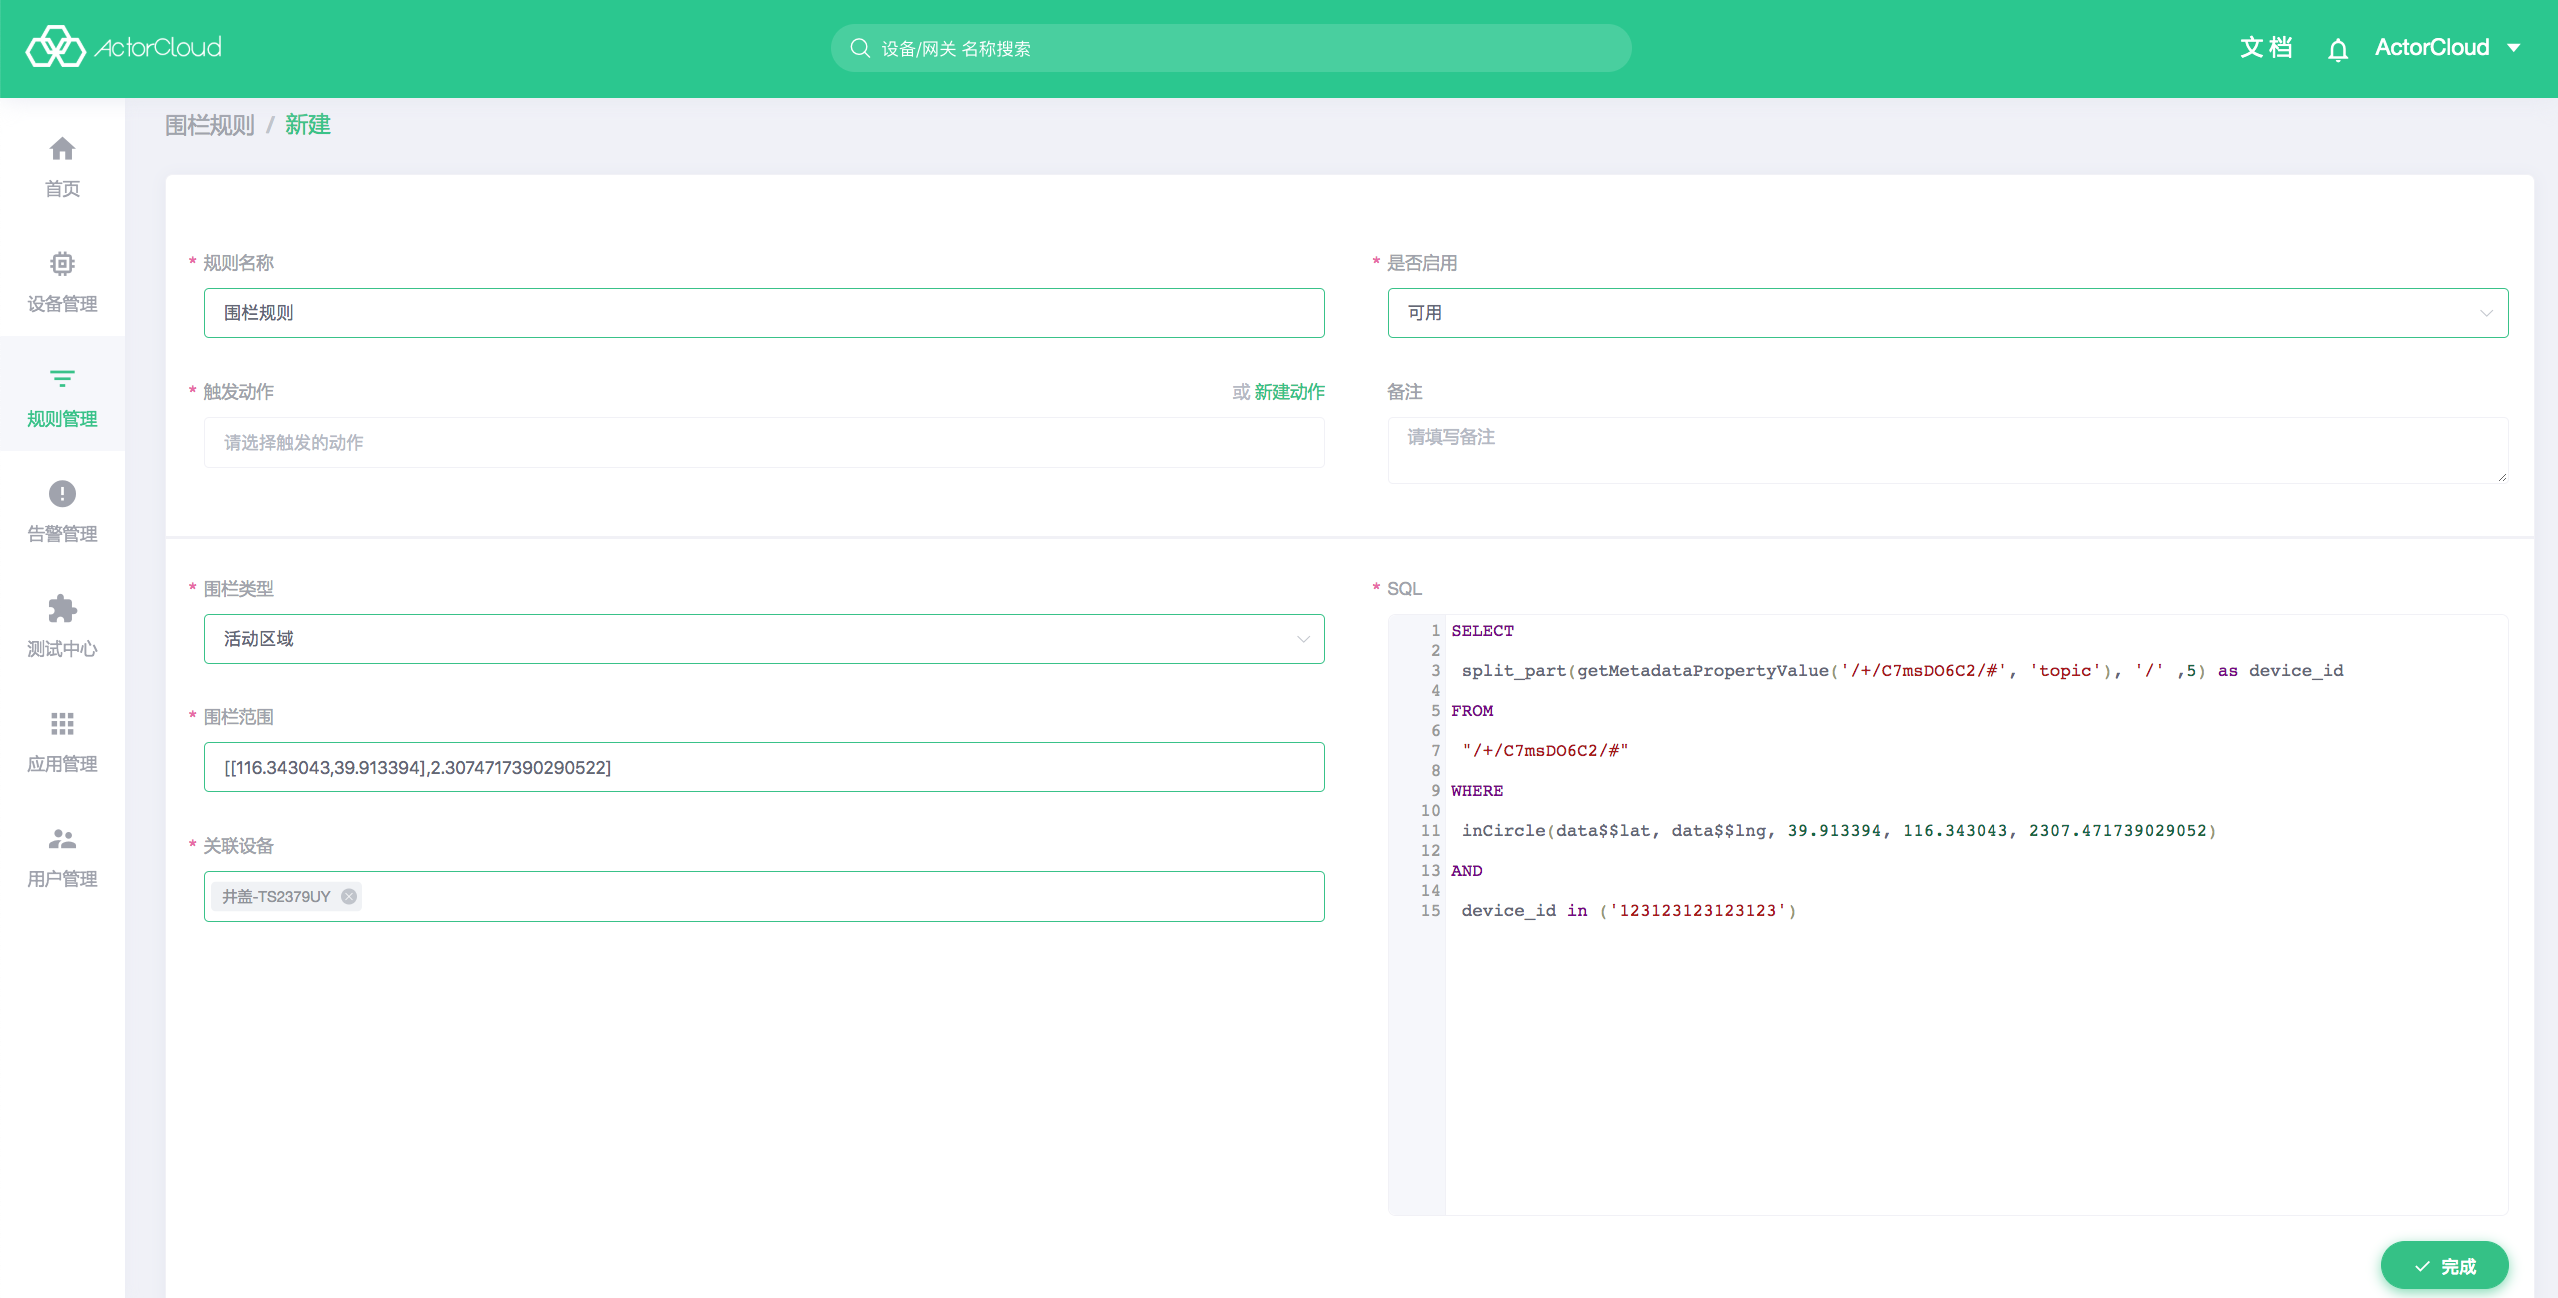
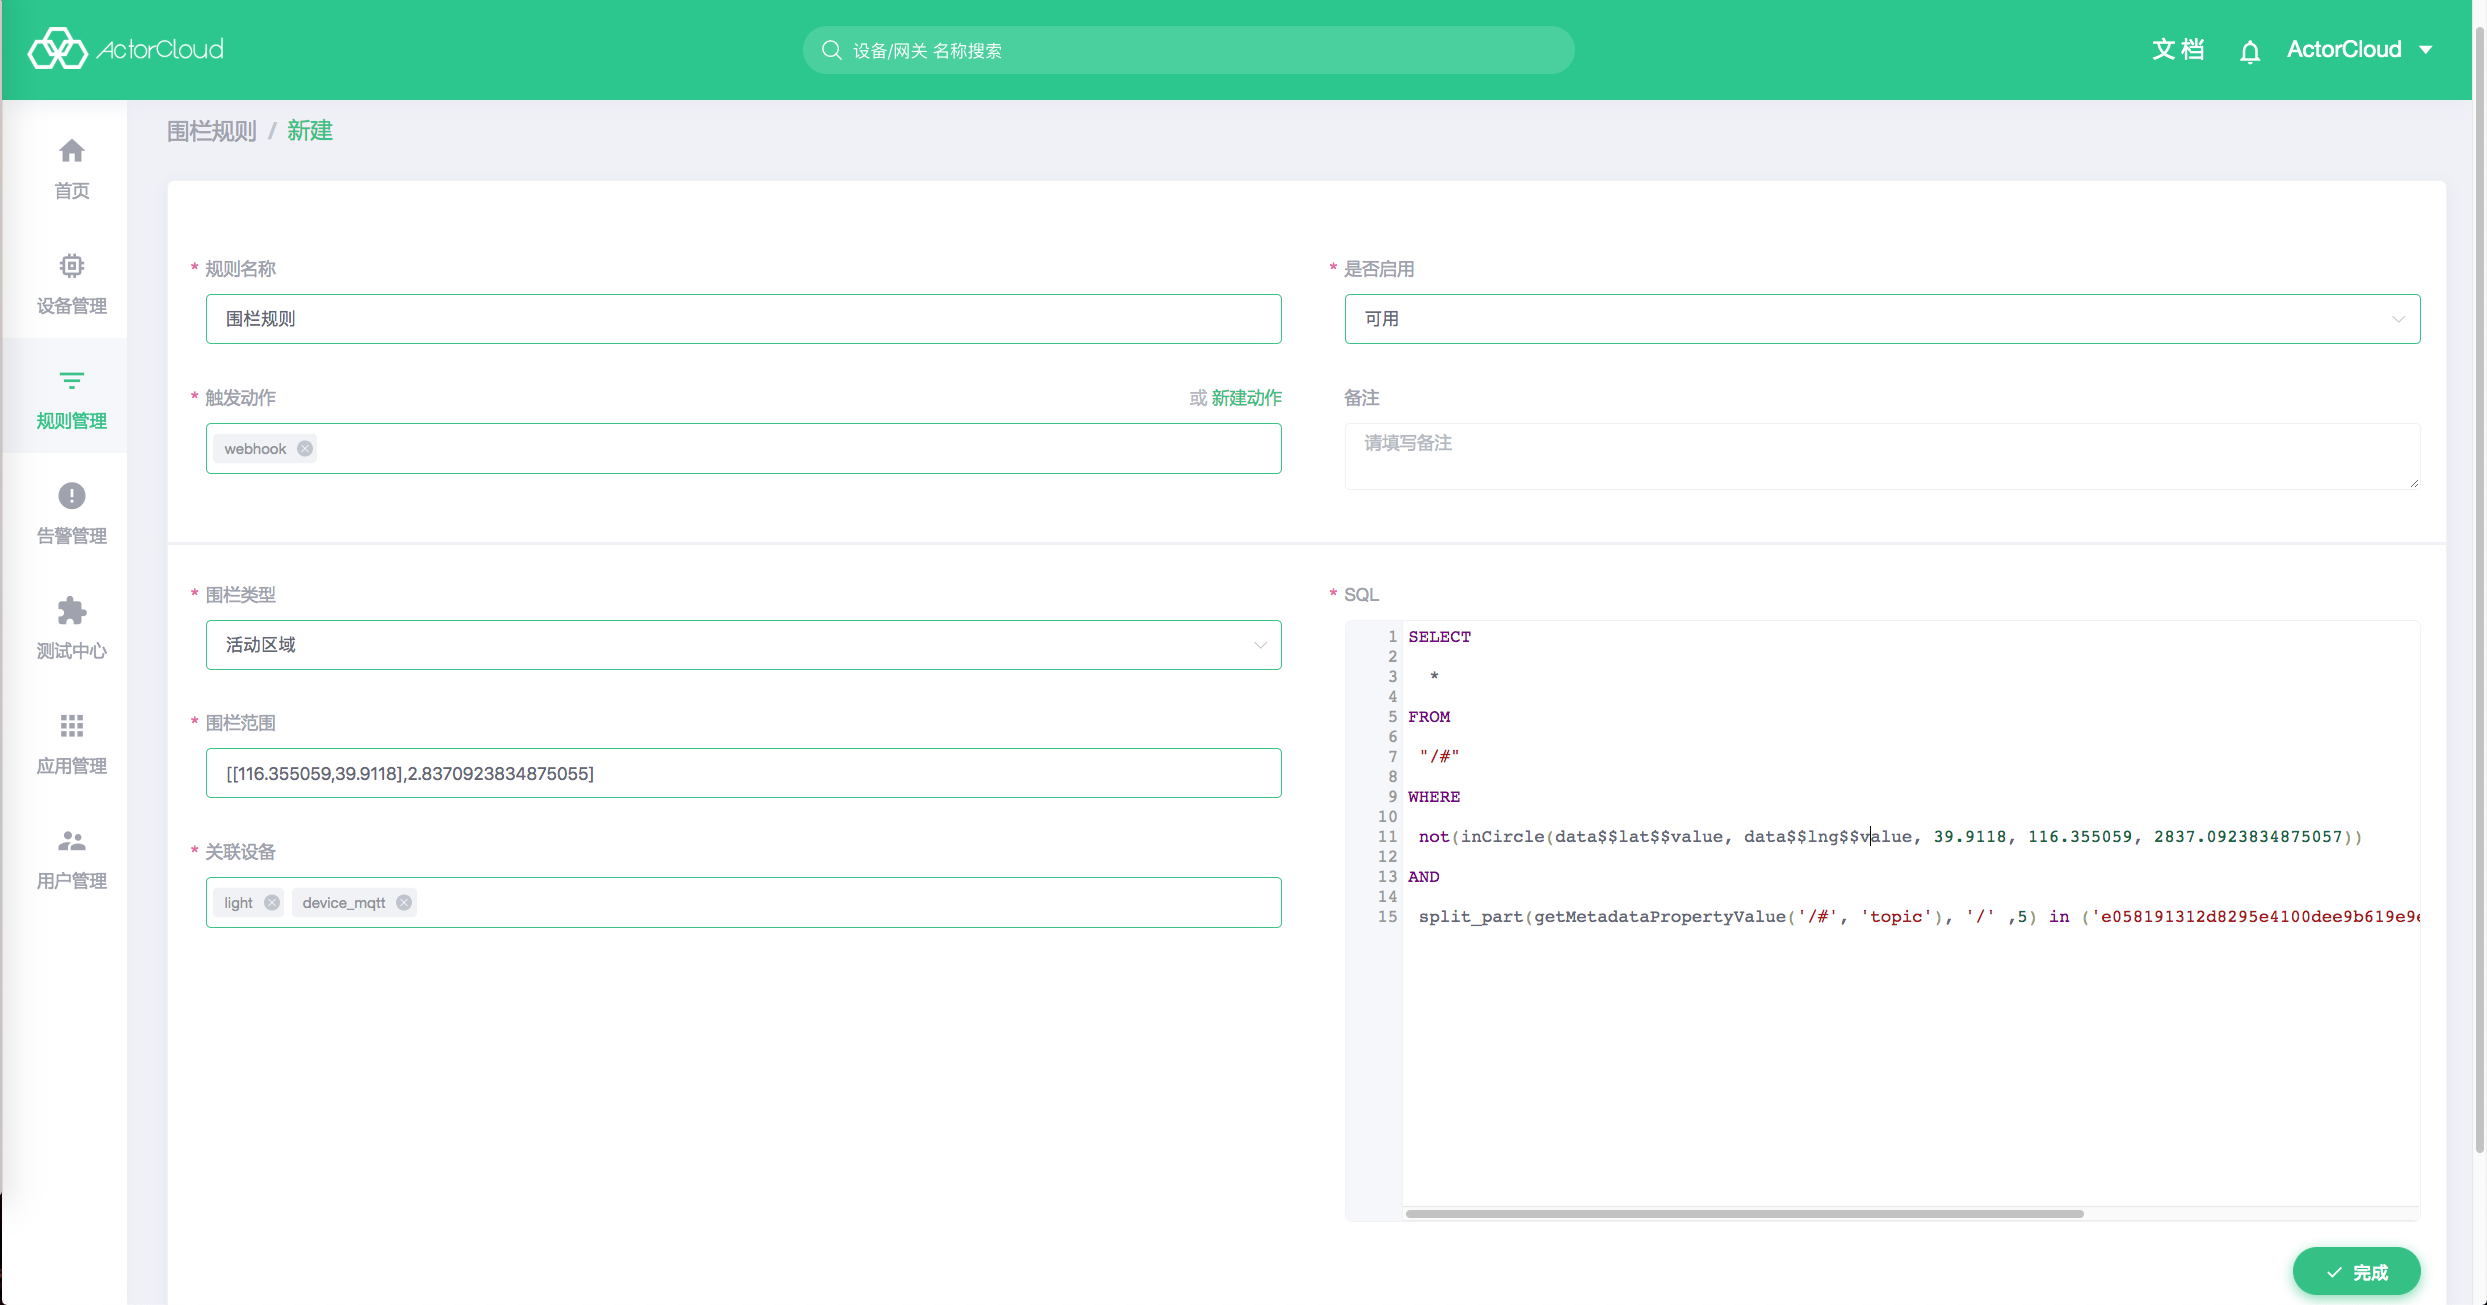
fix(rule_engine): update rule engine doc

diff --git a/zh/rule_engine/business_rules.md b/zh/rule_engine/business_rules.md
@@ -2,7 +2,7 @@
 
 业务规则应用于每一条设备上报至平台的数据流，通过预定义数据的相关规则与关联触发动作，当数据流里的数据满足规则定义时即可触发相应的动作。
 
-创建业务规则前，需要预先进行[功能定义](/products/product.md#功能定义)。
+创建业务规则前，需要预先进行 [功能定义](/products/product.md#功能定义)。
 
 规则的触发采用 `SQL` 的方式。
 
@@ -12,25 +12,25 @@ FROM "{topic}"
 WHERE condition
 ```
 
-- `SELECT`：消息的 payload，`SELECT *`，`SELECT temperature AS temp`，`SELECT payload$$hum AS hum`(适用于 {"payload":{"hum":89}} 的情况)
+- `SELECT`：消息的 payload，`SELECT *`，`SELECT temperature AS temp`，`SELECT payload$$hum AS hum`
 
 -  `FROM` ：消息的 topic，topic 的结构为：
-`/{protocol}/{tenantID}/{productID}/{deviceID}/{realTopic}`
+`/{productID}/{deviceID}/{realTopic}`
 
 业务规则 SQL 主要包含关联对象，条件频率和条件
 
 #### 1. 关联对象
 
-具体的 topic 可以界面上使用`查询主题`进行查询，根据情况可以关联到具体设备的数据流或者产品下所有设备的数据流。
+具体的 topic 可以在界面上使用`查询主题`进行查询，根据情况可以关联到具体设备的数据流或者产品下所有设备的数据流。
 
 关联到具体设备的数据流
 ```
-/mqtt/CcSMji6gp/bff530/dbabdf8ad91ef595bf9e9f35b1eef433/world
+/bff530/dbabdf8ad91ef595bf9e9f35b1eef433/world
 ```
 
 关联到产品下所有设备的数据流，使用 `+` 通配符
 ```
-/mqtt/CcSMji6gp/bff530/+/world
+/bff530/+/world
 ```
 
 #### 2. 条件频率
@@ -43,7 +43,7 @@ WHERE condition
 
 ```sql
 SELECT * 
-FROM "/mqtt/CcSMji6gp/bff530/dbabdf8ad91ef595bf9e9f35b1eef433/world"
+FROM "/bff530/dbabdf8ad91ef595bf9e9f35b1eef433/world"
 WHERE temp > 10
 ```
 
@@ -54,7 +54,7 @@ WHERE temp > 10
 
 ```sql
 SELECT * 
-FROM "/mqtt/CcSMji6gp/bff530/dbabdf8ad91ef595bf9e9f35b1eef433/world"
+FROM "/bff530/dbabdf8ad91ef595bf9e9f35b1eef433/world"
 WHERE temp > 10
 GROUP BY slidingwindow('mi', 2)
 HAVING COUNT(*) >= 5
@@ -66,7 +66,7 @@ HAVING COUNT(*) >= 5
 
 ```sql
 SELECT * 
-FROM "/mqtt/CcSMji6gp/bff530/dbabdf8ad91ef595bf9e9f35b1eef433/world"
+FROM "/bff530/dbabdf8ad91ef595bf9e9f35b1eef433/world"
 WHERE temp > 10
 GROUP BY slidingwindow('mi', 2)
 HAVING COUNT(*) = size()
@@ -78,7 +78,7 @@ HAVING COUNT(*) = size()
 
 ```sql
 SELECT * 
-FROM "/mqtt/CcSMji6gp/bff530/dbabdf8ad91ef595bf9e9f35b1eef433/world"
+FROM "/bff530/dbabdf8ad91ef595bf9e9f35b1eef433/world"
 GROUP BY tumblingwindow('mi', 2)
 HAVING size() = 0
 ```
@@ -90,12 +90,31 @@ HAVING size() = 0
 ![business_rule_create](_assets/business_rule_create.png)
 
 
+
+### 获取消息属性值
+
+规则 SQL 使用 `$$` 的方式获取属性值。若消息为
+
+```json
+{
+  "data":{
+    "temp":{
+      "time":1562316233,
+      "value":18
+    }
+  }
+}
+```
+
+则可以通过 `data$$temp$$value` 获取温度值
+
+
 **特别注意**
 
 若选择触发动作为`告警`，**必须**查询 topic，方法如下：
 ```sql
-SELECT getMetadataPropertyValue('/mqtt/CcSMji6gp/bff530/dbabdf8ad91ef595bf9e9f35b1eef433/world','topic') as topic,*
-FROM "/mqtt/CcSMji6gp/bff530/dbabdf8ad91ef595bf9e9f35b1eef433/world"
+SELECT getMetadataPropertyValue('/bff530/dbabdf8ad91ef595bf9e9f35b1eef433/world','topic') as topic,*
+FROM "/bff530/dbabdf8ad91ef595bf9e9f35b1eef433/world"
 ```
 
 **SQL 函数说明**
@@ -107,7 +126,11 @@ slidingwindow(String unit, long size)
 ```
 tumblingwindow(String unit, long size)
 ```
+参数说明：
+- unit：时间单位
+- size：大小
 
+unit 说明：
 | unit | 说明 |
 | ---- | ---- |
 | mc   | 微秒  |
@@ -117,7 +140,24 @@ tumblingwindow(String unit, long size)
 | hh   | 小时 |
 | dd   | 天   |
 
+示例：
+
+```sql
+slidingwindow('ss', 30)
+tumblingwindow('hh', 1)
+```
+***
+
 ```
 String getMetadataPropertyValue(String topic, String property)
 ```
 获取元数据中的特定属性值，此处仅支持获取 topic 的值
+
+参数说明：
+- topic：消息 topic
+- property：属性，此处仅支持 topic
+
+示例：
+```sql
+getMetadataPropertyValue('/bff530/dbabdf8ad91ef595bf9e9f35b1eef433/world', 'topic')
+```

diff --git a/zh/rule_engine/scope_rules.md b/zh/rule_engine/scope_rules.md
@@ -7,7 +7,7 @@
 **1. 围栏类型**
 
 - 活动区域
--  禁止区域
+- 禁止区域
 
 **2. 围栏范围**
 
@@ -22,20 +22,67 @@
 SQL 样例
 
 ```sql
-SELECT split_part(getMetadataPropertyValue('/+/CcSMji6gp/#', 'topic'), '/' , 5) AS device_id
-FROM "/+/CcSMji6gp/#"
-WHERE inCircle(data$$lat, data$$lng, 39.917739, 116.357634, 2083.487794747287)
-    AND device_id in ('client_id_5000','client_id_50001')
+SELECT *
+FROM "/#"
+WHERE inCircle(data$$lat$$value, data$$lng$$value, 39.917739, 116.357634, 2083.487794747287)
+    AND split_part(getMetadataPropertyValue('/#', 'topic'), '/' , 5) in ('client_id_5000','client_id_50001')
 ```
+
+**说明**
+
+`split_part(getMetadataPropertyValue('/#', 'topic'), '/' , 5)` 函数是为了从 topic 中取出设备 id
+
 
 **函数说明**
 
 ```
 String split_part(String text, String delimiter, int position)
 ```
-参数说明
+返回分割以后的特定位置的字符串
+
+参数说明：
 - text：待分割的字符串
 - delimiter：分隔符
 - position：位置，从 1 开始
 
-该函数返回分割以后的特定位置的字符串
+例子：
+```sql
+split_part('a,b,c', ',', 2)   # b
+split_part('/bff530/dbabdf8ad91ef595bf9e9f35b1eef433/world', '/', 3)  #  dbabdf8ad91ef595bf9e9f35b1eef433
+```
+
+***
+
+```
+boolean inCircle(double lat, double lng, double centerlat, double centerlng, double radius)
+```
+判断经纬度是否位于一个圆形范围内
+
+参数说明：
+- lat：纬度
+- lng：经度
+- centerLat：圆形范围圆心纬度
+- centerLng：圆形范围圆心经度
+- radius：圆形范围半径，单位为**米**
+
+例子：
+```sql
+inCircle(26.21453, 104.102951, 39.917739, 116.357634, 2083.487794747287)
+```
+***
+
+```
+boolean inPolygon(double lat, double lng, String pointArrayStr)
+```
+
+判断经纬度是否位于一个多边形范围内
+
+参数说明
+- lat：纬度
+- lng：经度
+- pointArrayStr：多边形经纬度列表字符串，如：`'[[39.922637,116.362612],[39.90315,116.397631],[39.888795,116.361239]]'`
+
+例子：
+```sql
+inPolygon(26.21453, 104.102951, '[[39.922637,116.362612],[39.90315,116.397631],[39.888795,116.361239]]')
+```

diff --git a/zh/rule_engine/actions.md b/zh/rule_engine/actions.md
@@ -6,7 +6,7 @@
 
 #### 1. 告警
 
-将触发规则的相关信息记录到平台[告警管理](/alert/alert.md)中，包含有告警等级，告警标题与告警内容；
+将触发规则的相关信息记录到平台 [告警管理](/alert/alert.md) 中，包含有告警等级，告警标题与告警内容；
 
 #### 2. 邮件
 
@@ -19,7 +19,7 @@
 
 #### 3. Webhook
 
-将消息推送到指定 URL 地址，创建前必须通过验证，请参考验证流程进行配置。
+将消息 `POST` 到指定 URL 地址，创建前必须通过验证，请参考验证流程进行配置。
 
 消息格式为：
 
@@ -49,12 +49,12 @@
 
 **附：Webhook 验证流程**
 
-**ActorCloud** 根据填入的 URL 地址与 token 进行认证，服务器将发送 GET 请求到填写的服务器地址 URL 上，请求携带参数如下:
+**ActorCloud** 根据填入的 URL 地址与 token 进行认证，服务器将发送 `GET` 请求到填写的服务器地址 URL 上，请求携带参数如下:
 - timestamp：时间戳；
 - nonce：随机数；
 - signature：加密签名，signature 为 token、 timestamp、nonce 变量值拼接并进行 sha1 加密后的值。
 
-请求地址为：`{webhook_url}?signature=xxx&?timestamp=yyy&nonce=zzz`
+请求格式为：`{webhook_url}?signature=xxx&?timestamp=yyy&nonce=zzz`
 
 Webhook 接口收到请求后，需要进行校验，校验规则如下：
 
